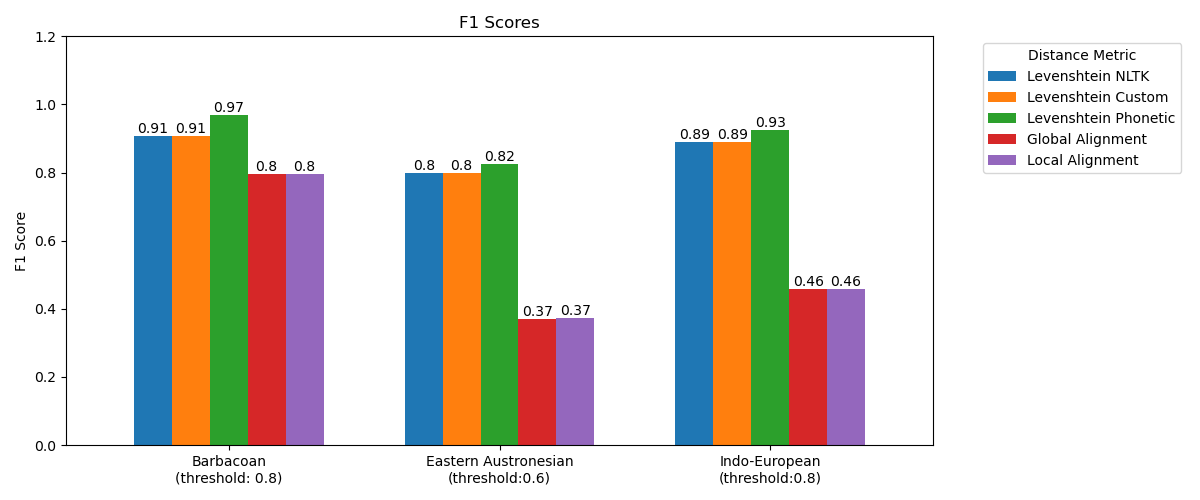
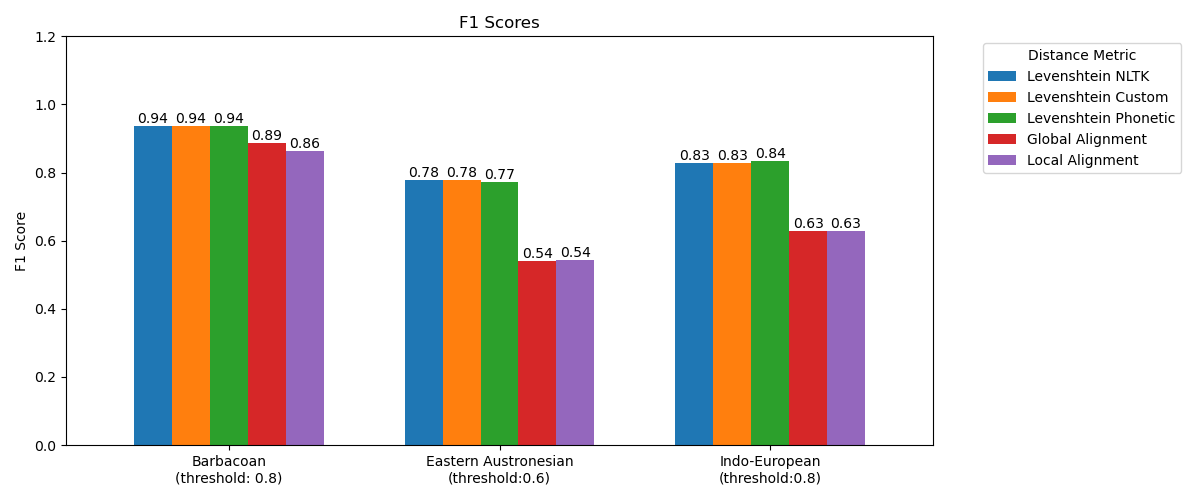
Curses of copy and paste... fixed that

diff --git a/plot_all_metrics.py b/plot_all_metrics.py
@@ -103,7 +103,7 @@ plt.savefig("./plots/precision_all")
 plt.show()
 
 
-ax = precision_df.plot(kind="bar", figsize=(12, 5), width=0.7)
+ax = recall_df.plot(kind="bar", figsize=(12, 5), width=0.7)
 plt.title("Recall Scores")
 # plt.xlabel("Form Data")
 plt.ylabel("Recall")
@@ -114,7 +114,7 @@ plt.legend(
     loc="upper left",
 )
 plt.xticks(rotation=0)
-plt.xticks(ticks=range(len(precision_df.index)), labels=x_labels)
+plt.xticks(ticks=range(len(recall_df.index)), labels=x_labels)
 plt.ylim(0, 1.2)
 for p in ax.patches:
     ax.annotate(
@@ -130,7 +130,7 @@ plt.savefig("./plots/recall_all")
 plt.show()
 
 
-ax = precision_df.plot(kind="bar", figsize=(12, 5), width=0.7)
+ax = f1_df.plot(kind="bar", figsize=(12, 5), width=0.7)
 plt.title("F1 Scores")
 # plt.xlabel("Form Data")
 plt.ylabel("F1 Score")
@@ -141,7 +141,7 @@ plt.legend(
     loc="upper left",
 )
 plt.xticks(rotation=0)
-plt.xticks(ticks=range(len(precision_df.index)), labels=x_labels)
+plt.xticks(ticks=range(len(f1_df.index)), labels=x_labels)
 plt.ylim(0, 1.2)
 for p in ax.patches:
     ax.annotate(
